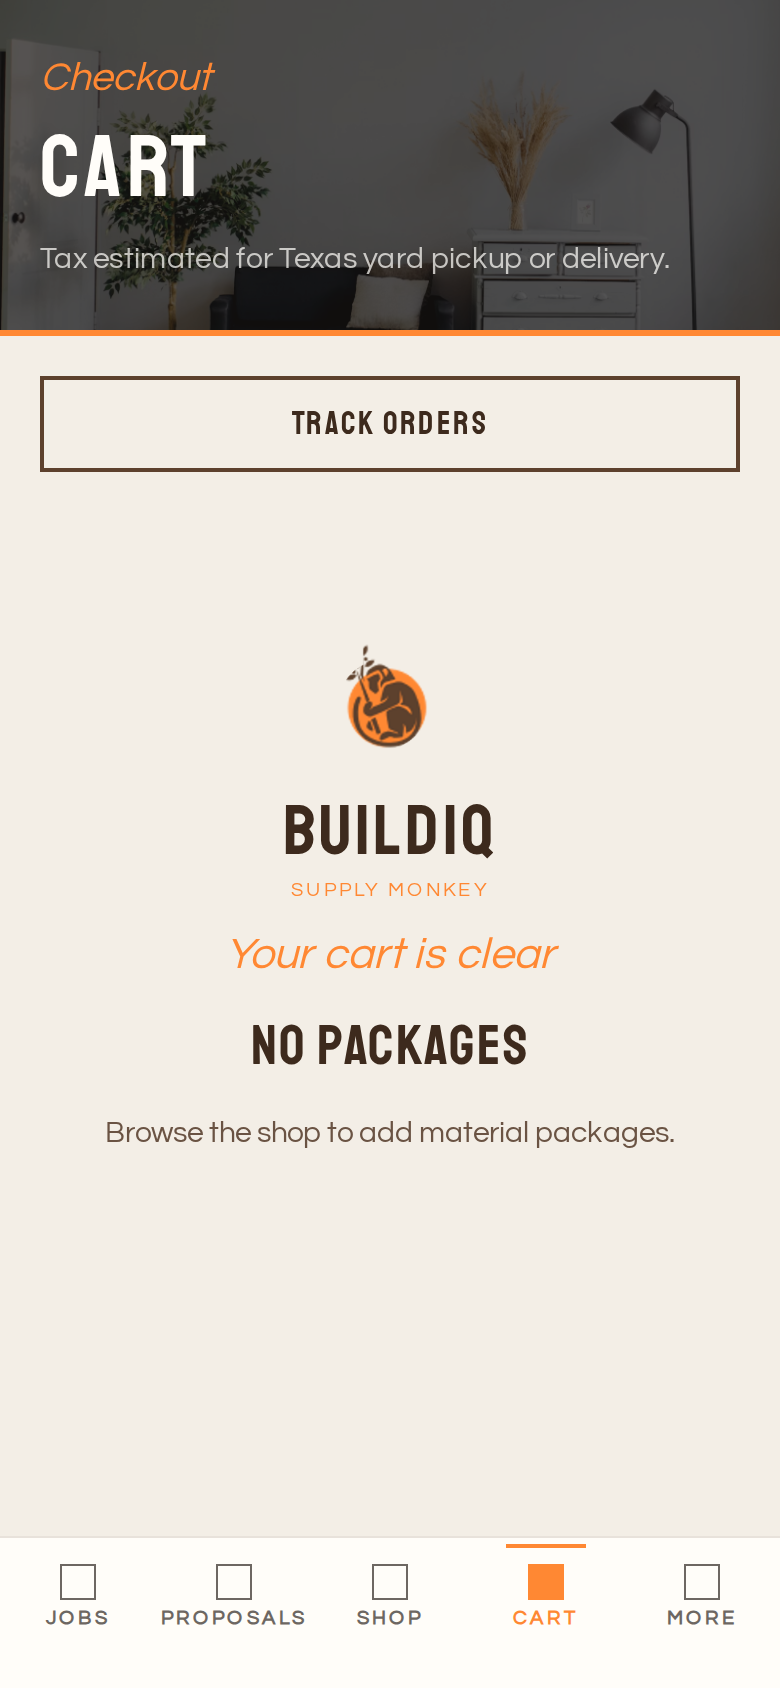
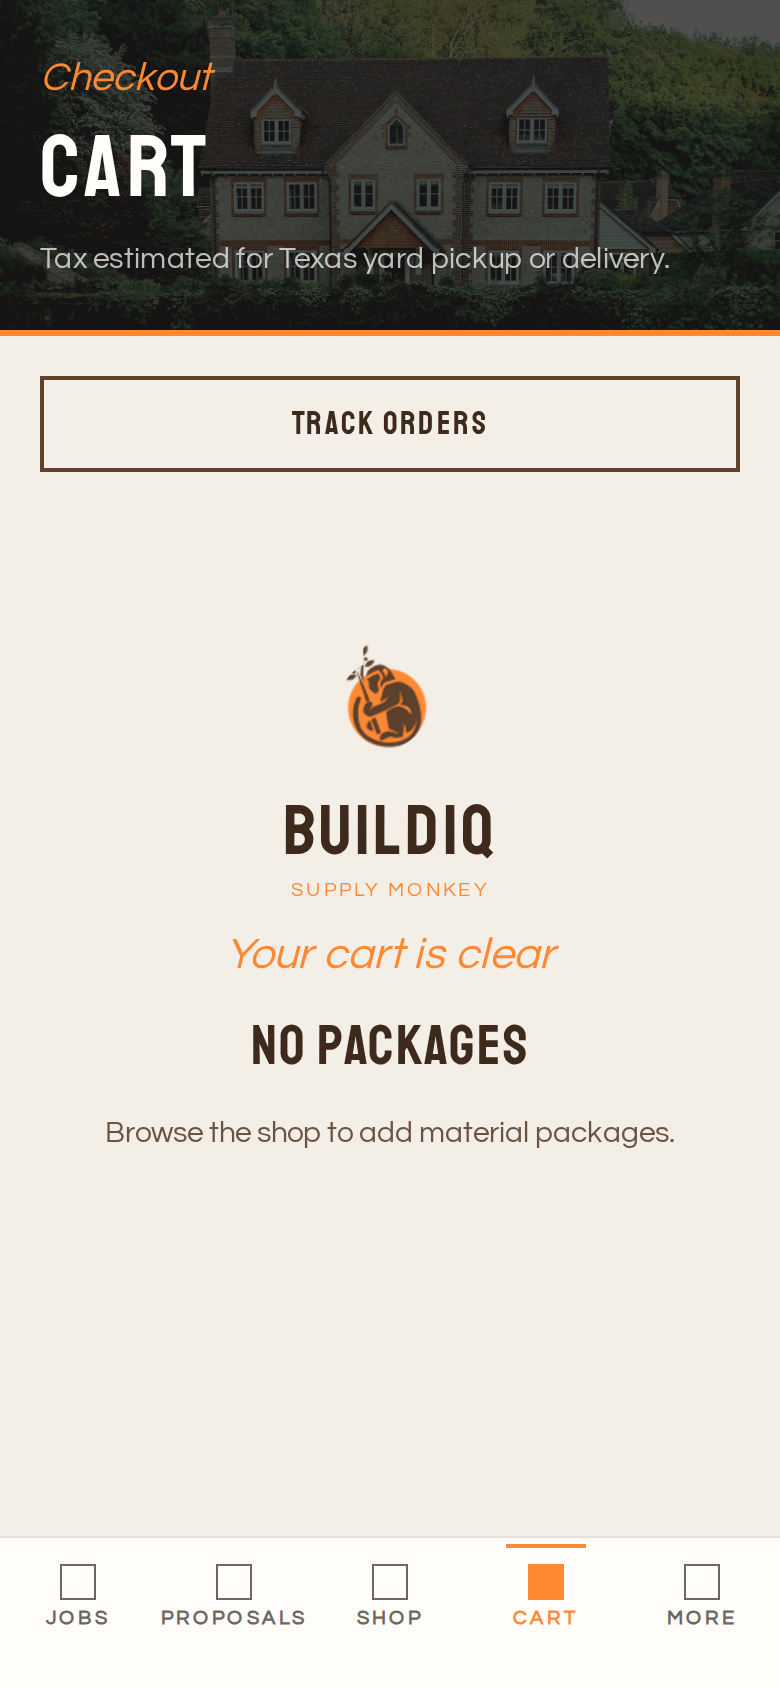
Use verified local hero photos per Supply Monkey page theme
Replace generic Unsplash guesses with checked local assets: lumber yard
for shop/login, framing for jobs, home/kitchen for proposals, windows for
cart, warehouse for track/orders, tools and cabinetry for account pages.

Changed region(s): [[0.0, 0.0, 1.0, 0.2156]]

diff --git a/packages/design-tokens/src/heroPhotos.ts b/packages/design-tokens/src/heroPhotos.ts
@@ -1,6 +1,9 @@
 /**
  * Full-bleed hero photography mapped to Supply Monkey site content:
  * lumber, trusses, doors/windows, millwork, stone, cabinetry, delivery, takeoffs.
+ *
+ * Web apps load these from `/heroes/*.jpg` (apps/web/public/heroes).
+ * Mobile maps the same filenames via require() in HeroBand.
  */
 export type HeroTone =
   | "jobs"
@@ -16,68 +19,69 @@ export type HeroTone =
   | "settings"
   | "login";
 
-const Q = "auto=format&fit=crop&w=1600&q=65";
-
-export const HERO_PHOTOS: Record<HeroTone, { uri: string; alt: string }> = {
-  /** Jobs — residential framing / active builds */
+export const HERO_PHOTOS: Record<
+  HeroTone,
+  { file: string; path: string; alt: string }
+> = {
   jobs: {
-    uri: `https://images.unsplash.com/photo-1541888946425-d81bb19240f5?${Q}`,
-    alt: "Residential framing under construction",
+    file: "jobs-framing.jpg",
+    path: "/heroes/jobs-framing.jpg",
+    alt: "Residential framing crew on an active build",
   },
-  /** Job detail — plan takeoff / blueprints on the bench */
   jobDetail: {
-    uri: `https://images.unsplash.com/photo-1503387762-592deb58ef4e?${Q}`,
+    file: "job-blueprints.jpg",
+    path: "/heroes/job-blueprints.jpg",
     alt: "Architectural blueprints on a workbench",
   },
-  /** Proposals — finished home curb appeal */
   proposals: {
-    uri: `https://images.unsplash.com/photo-1600585154340-be6161a56a0c?${Q}`,
-    alt: "Modern residential exterior",
+    file: "proposals-home.jpg",
+    path: "/heroes/proposals-home.jpg",
+    alt: "Finished residential home with glass and patio",
   },
-  /** Proposal detail — millwork / interior finish */
   proposalDetail: {
-    uri: `https://images.unsplash.com/photo-1631679706909-1844bbd07221?${Q}`,
-    alt: "Interior millwork and finished room",
+    file: "proposal-kitchen.jpg",
+    path: "/heroes/proposal-kitchen.jpg",
+    alt: "Finished kitchen millwork and cabinetry",
   },
-  /** Shop — lumber yard stacks */
   shop: {
-    uri: `https://images.unsplash.com/photo-1416331108676-a22ccb276e35?${Q}`,
-    alt: "Stacked lumber in a materials yard",
+    file: "shop-lumber.jpg",
+    path: "/heroes/shop-lumber.jpg",
+    alt: "Lumber yard timber stacks",
   },
-  /** Cart — windows & door packages */
   cart: {
-    uri: `https://images.unsplash.com/photo-1513694203232-719a280e022f?${Q}`,
-    alt: "Window and door materials ready for install",
+    file: "cart-windows.jpg",
+    path: "/heroes/cart-windows.jpg",
+    alt: "Residential windows and exterior detailing",
   },
-  /** Track — warehouse / yard pull logistics */
   track: {
-    uri: `https://images.unsplash.com/photo-1586528116311-ad8dd3c8310d?${Q}`,
-    alt: "Materials warehouse ready for delivery",
+    file: "track-warehouse.jpg",
+    path: "/heroes/track-warehouse.jpg",
+    alt: "Materials warehouse aisle ready for yard pull",
   },
-  /** Orders — delivery / fulfillment */
   orders: {
-    uri: `https://images.unsplash.com/photo-1589939705384-5185137a7f0f?${Q}`,
-    alt: "Building materials staged for jobsite delivery",
+    file: "orders-warehouse.jpg",
+    path: "/heroes/orders-warehouse.jpg",
+    alt: "Staged materials ready for jobsite delivery",
   },
-  /** Account / More — contractor tools */
   account: {
-    uri: `https://images.unsplash.com/photo-1504328345606-18bbc8c9d7d1?${Q}`,
-    alt: "Jobsite tools and hardware",
+    file: "account-tools.jpg",
+    path: "/heroes/account-tools.jpg",
+    alt: "Jobsite fabrication and tools",
   },
-  /** Cabinetry — kitchen cabinetry showroom feel */
   cabinetry: {
-    uri: `https://images.unsplash.com/photo-1556912173-46c336c7fd55?${Q}`,
-    alt: "Custom kitchen cabinetry",
+    file: "cabinetry-kitchen.jpg",
+    path: "/heroes/cabinetry-kitchen.jpg",
+    alt: "Custom kitchen cabinetry showroom",
   },
-  /** Settings — office / estimating desk */
   settings: {
-    uri: `https://images.unsplash.com/photo-1497366216548-37526070297c?${Q}`,
+    file: "settings-office.jpg",
+    path: "/heroes/settings-office.jpg",
     alt: "Estimating office workspace",
   },
-  /** Login — specialty hardwood / lumber corridor */
   login: {
-    uri: `https://images.unsplash.com/photo-1449844908441-8829872d2607?${Q}`,
-    alt: "Lumber stacks in a supply yard",
+    file: "login-lumber.jpg",
+    path: "/heroes/login-lumber.jpg",
+    alt: "Supply Monkey lumber yard corridor",
   },
 };
 

diff --git a/apps/mobile/src/ui/HeroBand.tsx b/apps/mobile/src/ui/HeroBand.tsx
@@ -1,8 +1,24 @@
 import React, { type ReactNode } from "react";
-import { Text, View, type StyleProp, type ViewStyle } from "react-native";
+import { Text, View, type StyleProp, type ViewStyle, type ImageSourcePropType } from "react-native";
 import { Image } from "expo-image";
 import { heroPhoto, type HeroTone } from "@buildiq/design-tokens";
 import { useTheme } from "./ThemeContext";
+
+/** Local hero assets — filenames match @buildiq/design-tokens HERO_PHOTOS.file */
+const HERO_ASSETS: Record<HeroTone, ImageSourcePropType> = {
+  jobs: require("../../assets/heroes/jobs-framing.jpg"),
+  jobDetail: require("../../assets/heroes/job-blueprints.jpg"),
+  proposals: require("../../assets/heroes/proposals-home.jpg"),
+  proposalDetail: require("../../assets/heroes/proposal-kitchen.jpg"),
+  shop: require("../../assets/heroes/shop-lumber.jpg"),
+  cart: require("../../assets/heroes/cart-windows.jpg"),
+  track: require("../../assets/heroes/track-warehouse.jpg"),
+  orders: require("../../assets/heroes/orders-warehouse.jpg"),
+  account: require("../../assets/heroes/account-tools.jpg"),
+  cabinetry: require("../../assets/heroes/cabinetry-kitchen.jpg"),
+  settings: require("../../assets/heroes/settings-office.jpg"),
+  login: require("../../assets/heroes/login-lumber.jpg"),
+};
 
 type HeroBandProps = {
   eyebrow: string;
@@ -11,10 +27,7 @@ type HeroBandProps = {
   action?: ReactNode;
   /** Theme photo matched to Supply Monkey site content */
   tone?: HeroTone;
-  /** Full-bleed photo behind scrim. Defaults on. */
   showPhoto?: boolean;
-  /** Override URI when needed */
-  imageUri?: string;
   style?: StyleProp<ViewStyle>;
 };
 
@@ -26,13 +39,11 @@ export function HeroBand({
   action,
   tone = "jobs",
   showPhoto = true,
-  imageUri,
   style,
 }: HeroBandProps) {
   const { theme, gutter } = useTheme();
   const base = theme.mode === "dark" ? theme.colors.inverseLift : "#161412";
   const photo = heroPhoto(tone);
-  const uri = imageUri ?? photo.uri;
 
   return (
     <View
@@ -51,7 +62,7 @@ export function HeroBand({
     >
       {showPhoto ? (
         <Image
-          source={{ uri }}
+          source={HERO_ASSETS[tone]}
           style={{ position: "absolute", top: 0, right: 0, bottom: 0, left: 0 }}
           contentFit="cover"
           transition={theme.motion.enter as number}

diff --git a/apps/web/app/globals.css b/apps/web/app/globals.css
@@ -246,7 +246,7 @@ img {
   inset: 0;
   background:
     linear-gradient(105deg, rgba(22, 20, 18, 0.88) 0%, rgba(22, 20, 18, 0.68) 48%, rgba(34, 30, 27, 0.5) 100%),
-    var(--bq-hero-image, url("https://images.unsplash.com/photo-1541888946425-d81bb19240f5?auto=format&fit=crop&w=1600&q=65"))
+    var(--bq-hero-image, url("/heroes/jobs-framing.jpg"))
       center / cover no-repeat;
 }
 
@@ -793,7 +793,7 @@ img {
   min-height: 280px;
   background:
     linear-gradient(160deg, rgba(22, 20, 18, 0.82), rgba(22, 20, 18, 0.55)),
-    url("https://images.unsplash.com/photo-1449844908441-8829872d2607?auto=format&fit=crop&w=1600&q=65")
+    url("/heroes/login-lumber.jpg")
       center / cover no-repeat;
   border-right: 3px solid var(--bq-accent-primary);
   color: var(--bq-text-inverse);

diff --git a/apps/web/components/HeroBand.tsx b/apps/web/components/HeroBand.tsx
@@ -8,7 +8,6 @@ export interface HeroBandProps {
   actions?: ReactNode;
   /** Theme photo matched to Supply Monkey site content */
   tone?: HeroTone;
-  imageUri?: string;
 }
 
 export function HeroBand({
@@ -17,12 +16,10 @@ export function HeroBand({
   support,
   actions,
   tone = "jobs",
-  imageUri,
 }: HeroBandProps) {
   const photo = heroPhoto(tone);
-  const uri = imageUri ?? photo.uri;
   const bgStyle = {
-    ["--bq-hero-image" as string]: `url("${uri}")`,
+    ["--bq-hero-image" as string]: `url("${photo.path}")`,
   } as CSSProperties;
 
   return (

diff --git a/packages/design-tokens/scripts/build.ts b/packages/design-tokens/scripts/build.ts
@@ -59,8 +59,8 @@ export type HeroTone =
   | "cabinetry"
   | "settings"
   | "login";
-export declare const HERO_PHOTOS: Record<HeroTone, { uri: string; alt: string }>;
-export declare function heroPhoto(tone?: HeroTone): { uri: string; alt: string };
+export declare const HERO_PHOTOS: Record<HeroTone, { file: string; path: string; alt: string }>;
+export declare function heroPhoto(tone?: HeroTone): { file: string; path: string; alt: string };
 `
 );
 
